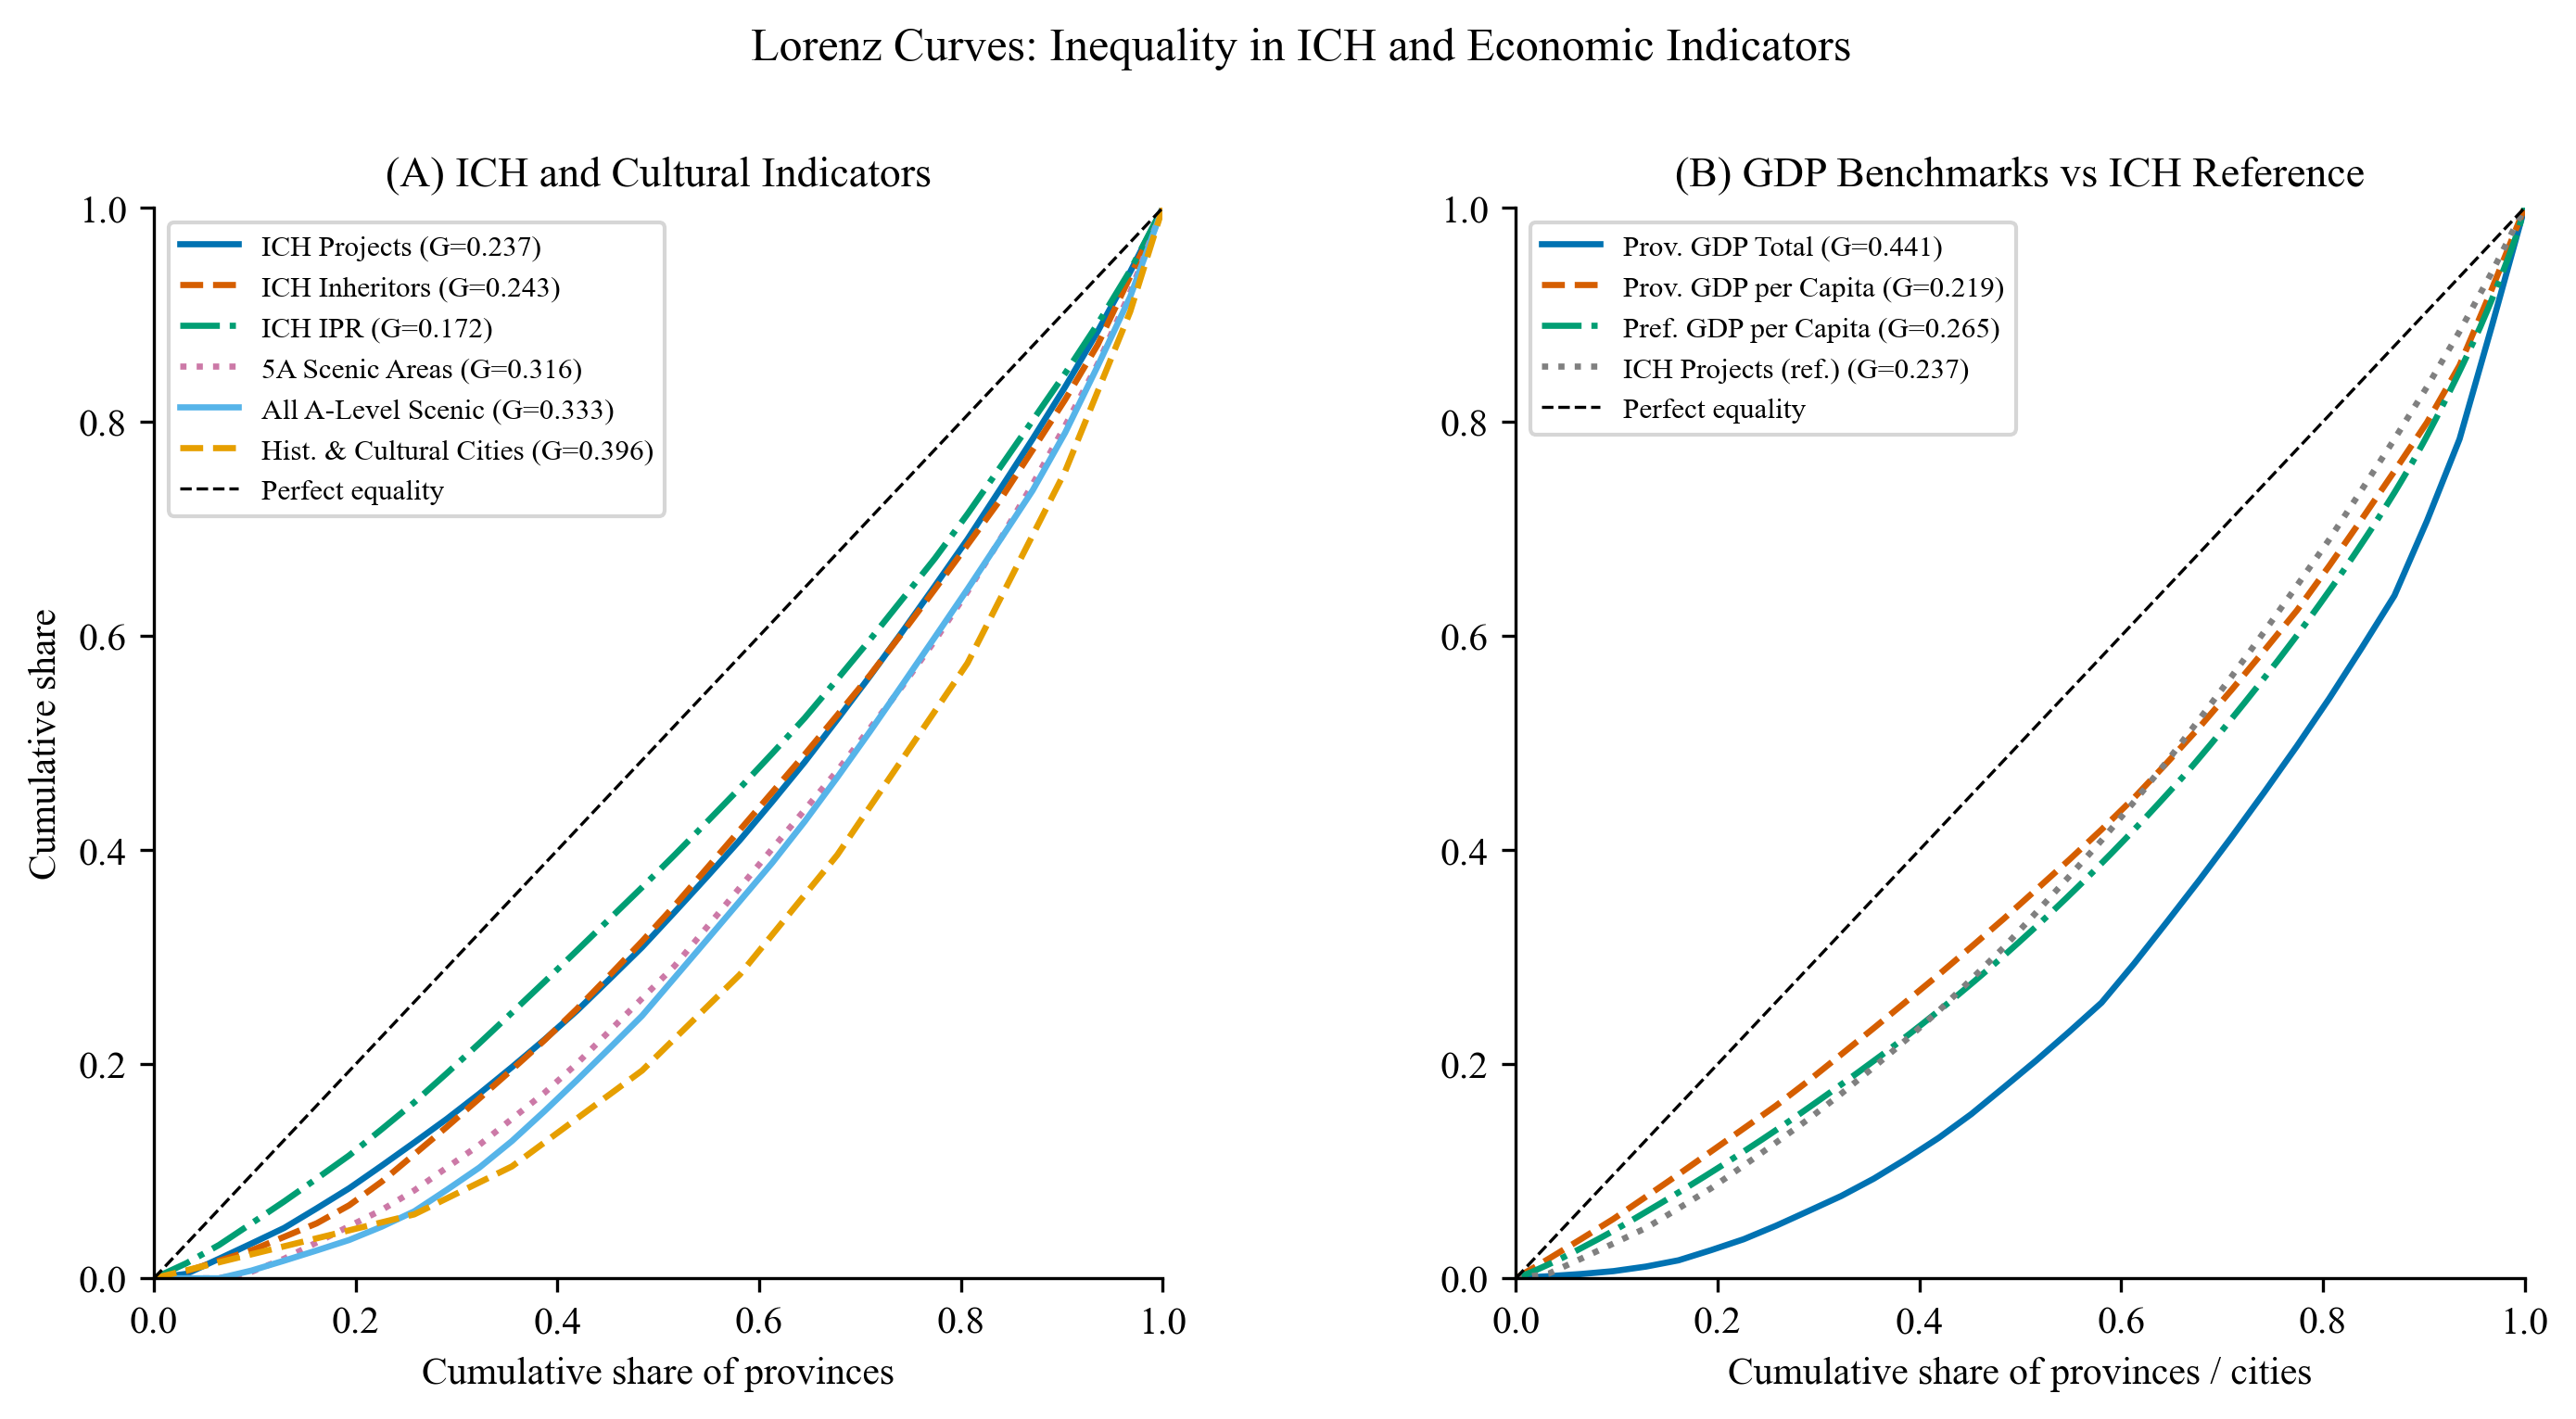
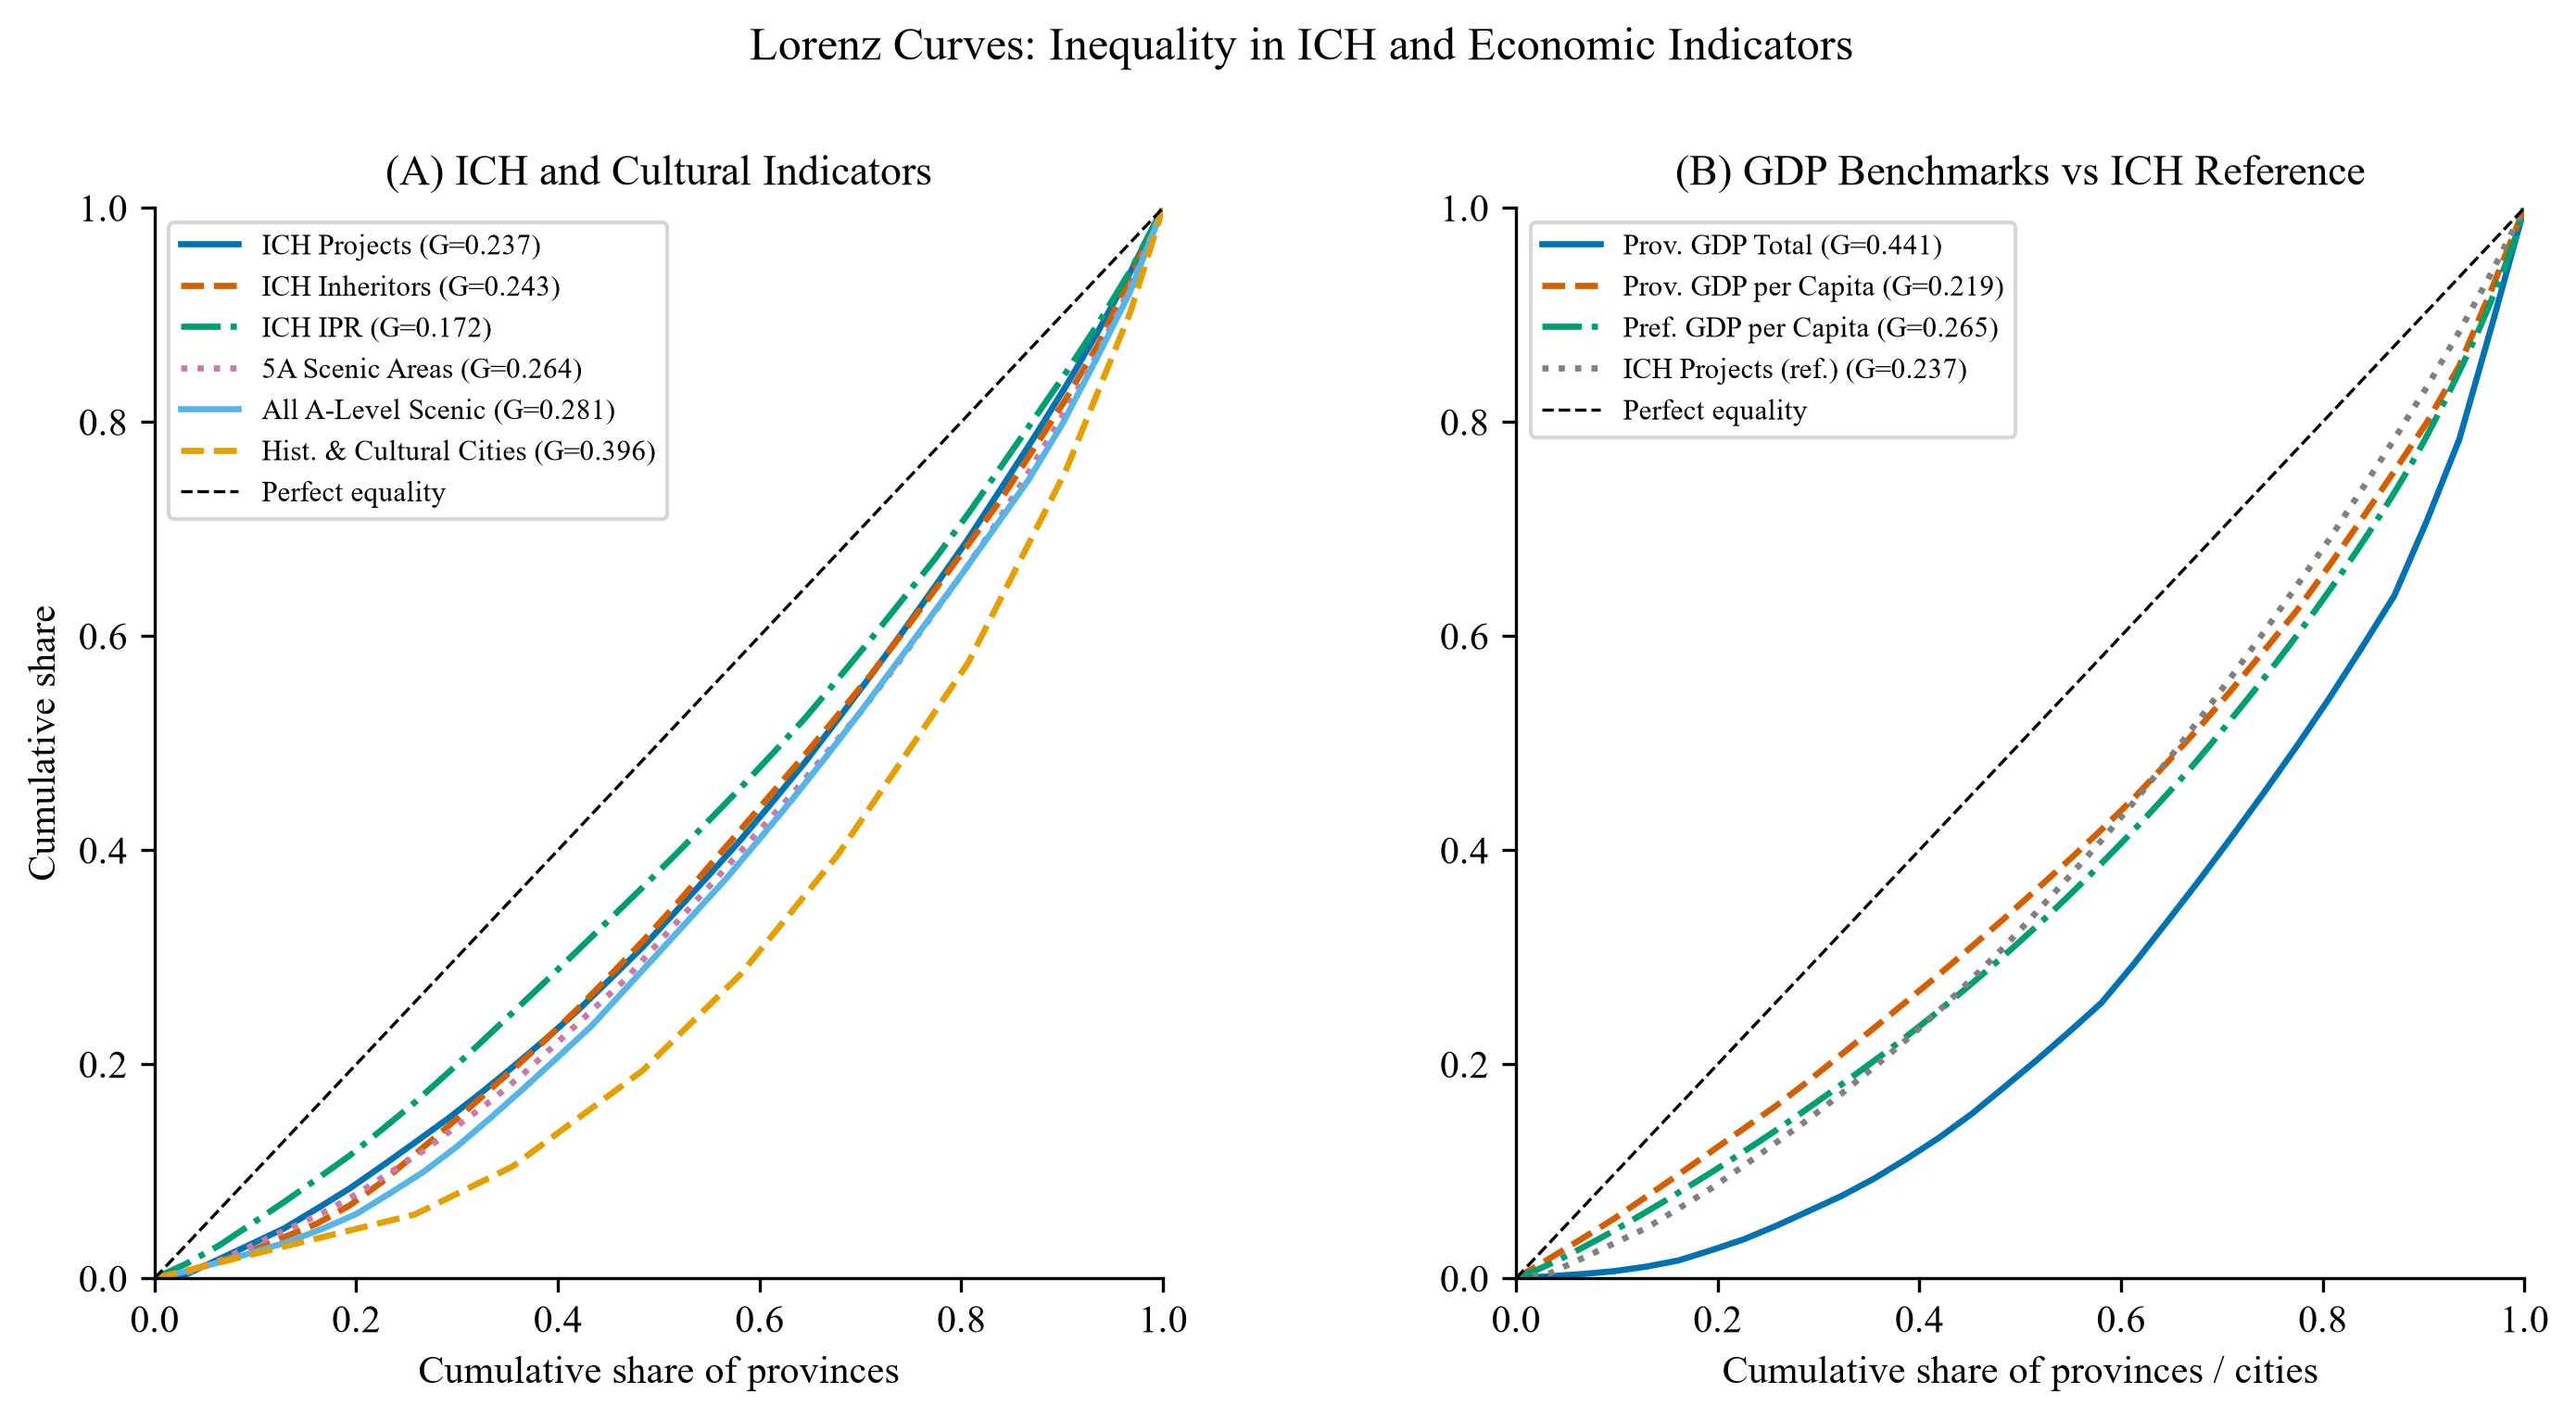
Complete ticket 15 scenic downstream fix

diff --git a/tables/table_A2_descriptive_statistics.tex b/tables/table_A2_descriptive_statistics.tex
@@ -13,16 +13,14 @@ inheritor\_count & 31 & 721.323 & 320.314 & 150.000 & 746.000 & 1435.000 \\
 IPR & 31 & 1.112 & 0.349 & 0.486 & 1.042 & 2.015 \\
 GDP\_per\_capita & 31 & 90714.638 & 37843.455 & 51000.457 & 76840.386 & 200187.557 \\
 fiscal\_expenditure\_per\_capita & 31 & 17236.600 & 9509.698 & 9306.650 & 14468.460 & 53813.663 \\
-A\_level\_scenic\_area\_count & 30 & 523.400 & 270.010 & 109.000 & 539.000 & 1254.000 \\
+A\_level\_scenic\_area\_count & 30 & 523.167 & 269.833 & 109.000 & 539.000 & 1254.000 \\
 five\_A\_scenic\_area\_count & 30 & 11.467 & 5.532 & 2.000 & 12.000 & 26.000 \\
 historical\_cultural\_city\_town\_village\_count & 31 & 30.097 & 26.890 & 2.000 & 25.000 & 117.000 \\
-library\_count & 0 &  &  &  &  &  \\
 museum\_count & 31 & 207.032 & 170.771 & 15.000 & 182.000 & 807.000 \\
-cultural\_capacity\_proxy & 31 & 0.000 & 1.017 & -1.351 & -0.344 & 2.685 \\
 \bottomrule
 \end{tabular}
 }
 \begin{minipage}{0.96\textwidth}
-\footnotesize \textit{Notes:} Scenic-area rows use a source cross-check: Xinjiang is corrected from the source workbook, while Hainan is treated as missing because it is absent from the available scenic-area registry snapshot.
+\footnotesize \textit{Notes:} Scenic-area rows use a source cross-check: Xinjiang is corrected to 598 A-level scenic areas and 15 5A scenic areas, while Hainan is treated as missing because it is absent from the available scenic-area registry snapshot.
 \end{minipage}
 \end{table}

diff --git a/tables/table_A3_gini_summary.tex b/tables/table_A3_gini_summary.tex
@@ -9,10 +9,10 @@
 Measure & Gini & N & Level \\
 \hline
 ICH Projects (count) & 0.2374 & 31 & Province \\
-ICH Inheritors (count) & 0.243 & 31 & Province \\
+ICH Inheritors (count) & 0.2430 & 31 & Province \\
 ICH Inheritor-to-Project Ratio & 0.1722 & 31 & Province \\
-5A Scenic Areas (count) & 0.3161 & 31 & Province \\
-All A-Level Scenic Areas (count) & 0.3332 & 31 & Province \\
+5A Scenic Areas (count) & 0.2643 & 30 & Province \\
+All A-Level Scenic Areas (count) & 0.2806 & 30 & Province \\
 Hist. \& Cultural Cities (count) & 0.3962 & 31 & Province \\
 Provincial GDP Total & 0.4411 & 31 & Province \\
 Provincial GDP per Capita & 0.2192 & 31 & Province \\

diff --git a/docs/ticket15_downstream_scenic_fix.md b/docs/ticket15_downstream_scenic_fix.md
@@ -1,0 +1,37 @@
+# Ticket 15 Summary: Downstream Scenic-Area Fix
+
+## Result
+
+The corrected scenic-area treatment was propagated to the public processed panel, Table A2, Table A3, and Figure 3. Xinjiang is corrected to **598** A-level scenic areas and **15** 5A scenic areas. Hainan is treated as missing for scenic-area series, so both scenic rows in Table A2/Table A3 use **N = 30**.
+
+Figure option taken: **regenerated Figure 3 with corrected scenic curves retained**. Both scenic Lorenz curves remain in Panel A; their Gini labels now reflect the corrected N = 30 series.
+
+## Scenic Gini Change
+
+| Series | Old Gini | Old N | New Gini | New N |
+| --- | ---: | ---: | ---: | ---: |
+| 5A Scenic Areas (count) | 0.3161 | 31 | 0.2643 | 30 |
+| All A-Level Scenic Areas (count) | 0.3332 | 31 | 0.2806 | 30 |
+
+## Non-Scenic Quality Gate
+
+| Measure | Gini after fix | N | Status |
+| --- | ---: | ---: | --- |
+| ICH Projects (count) | 0.2374 | 31 | unchanged |
+| ICH Inheritors (count) | 0.2430 | 31 | unchanged |
+| ICH Inheritor-to-Project Ratio | 0.1722 | 31 | unchanged |
+| Hist. & Cultural Cities (count) | 0.3962 | 31 | unchanged |
+| Provincial GDP Total | 0.4411 | 31 | unchanged |
+| Provincial GDP per Capita | 0.2192 | 31 | unchanged |
+| Prefecture GDP per Capita | 0.2646 | 295 | unchanged |
+
+## Files Written
+
+- `data/processed/province_ipr_final.csv`
+- `tables/table_A2_descriptive_statistics.csv`
+- `tables/table_A2_descriptive_statistics.tex`
+- `tables/table_A3_gini_summary.csv`
+- `tables/table_A3_gini_summary.tex`
+- `figures/fig_3_lorenz_curves.png`
+- `figures/fig_3_lorenz_curves.pdf`
+- `docs/ticket15_downstream_scenic_fix.md`

diff --git a/docs/tickets/2026-07-06_ticket15_downstream_scenic_fix.md b/docs/tickets/2026-07-06_ticket15_downstream_scenic_fix.md
@@ -2,7 +2,7 @@
 
 Date: 2026-07-06
 Origin: Strategy agent, acceptance review of Tickets 12-14
-status: open
+status: done
 
 ## Ticket 15: downstream_scenic_fix
 